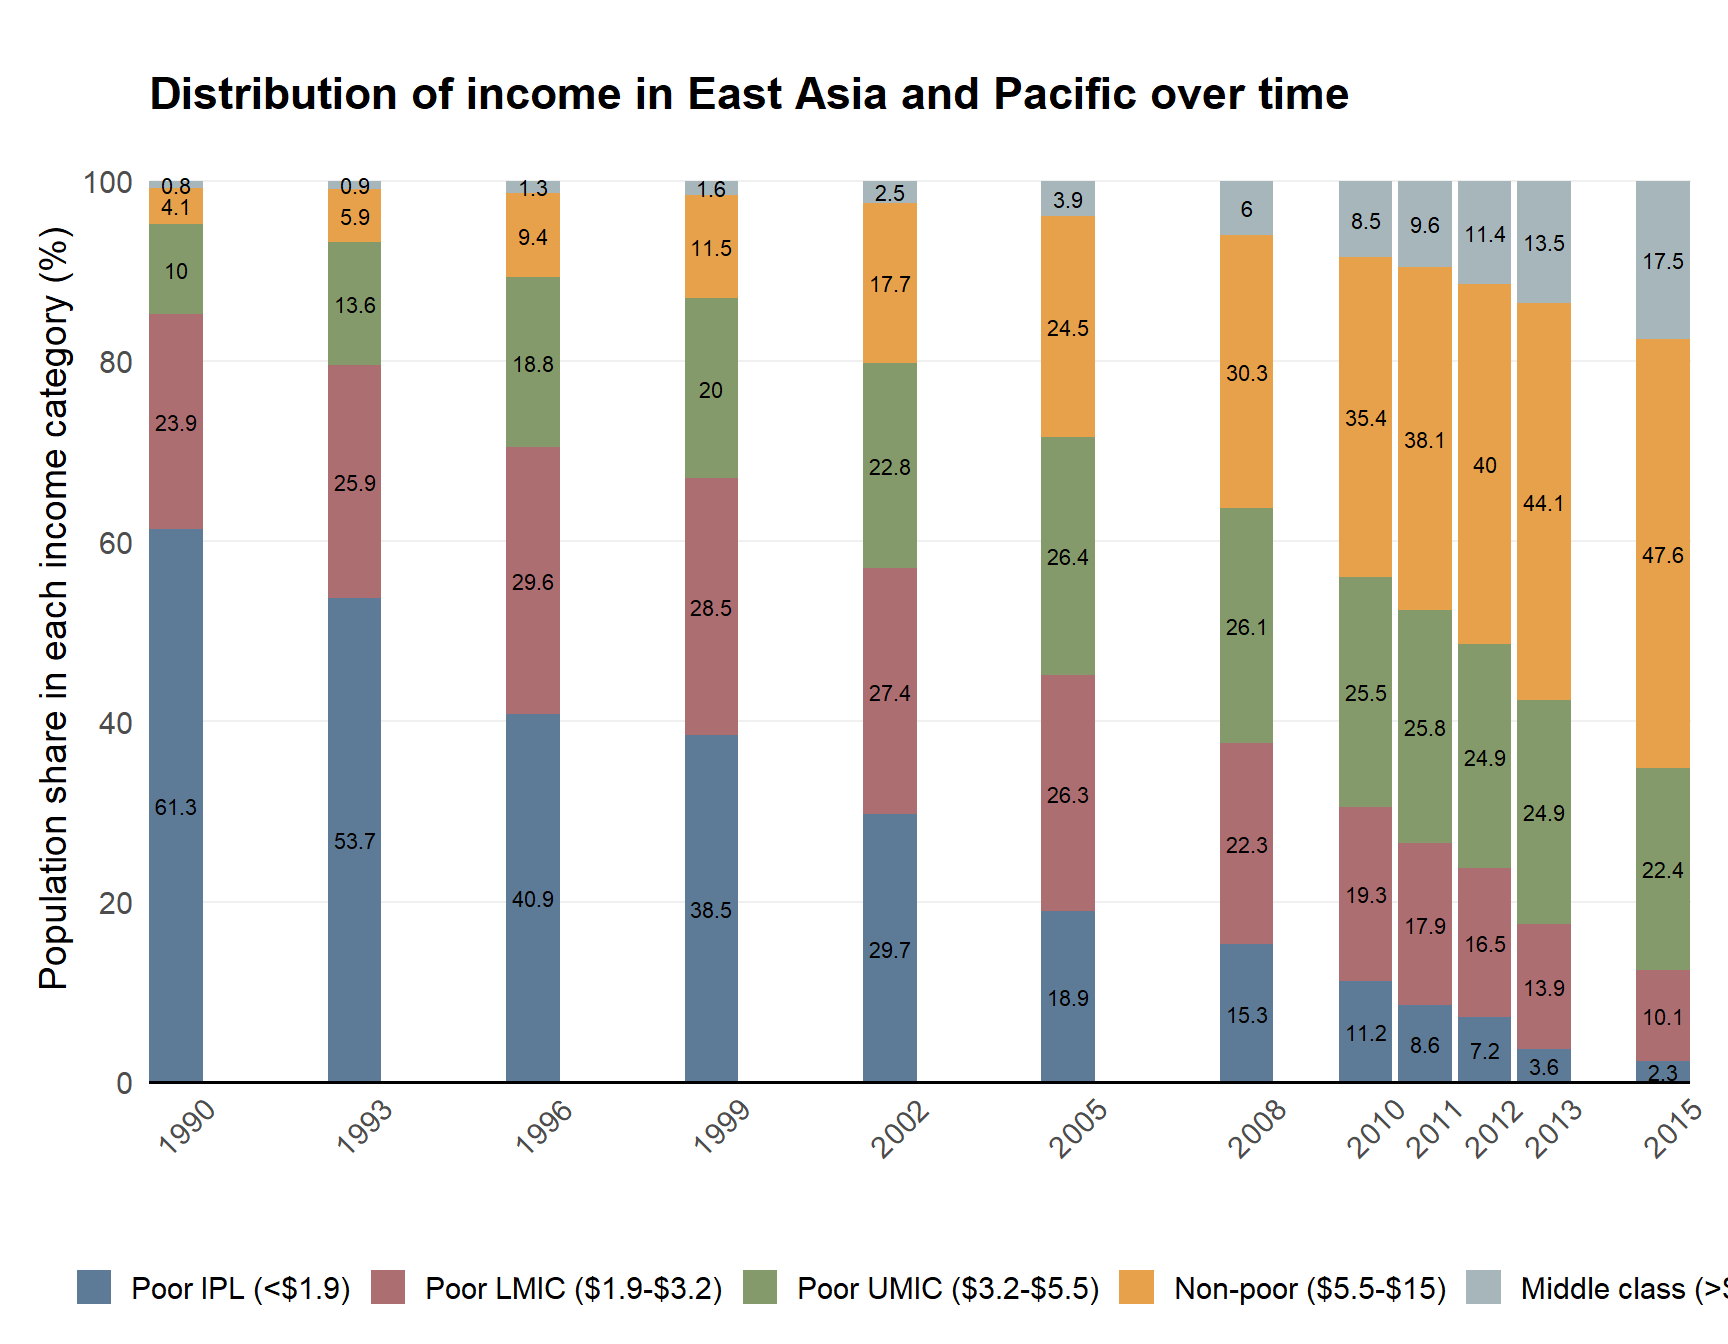
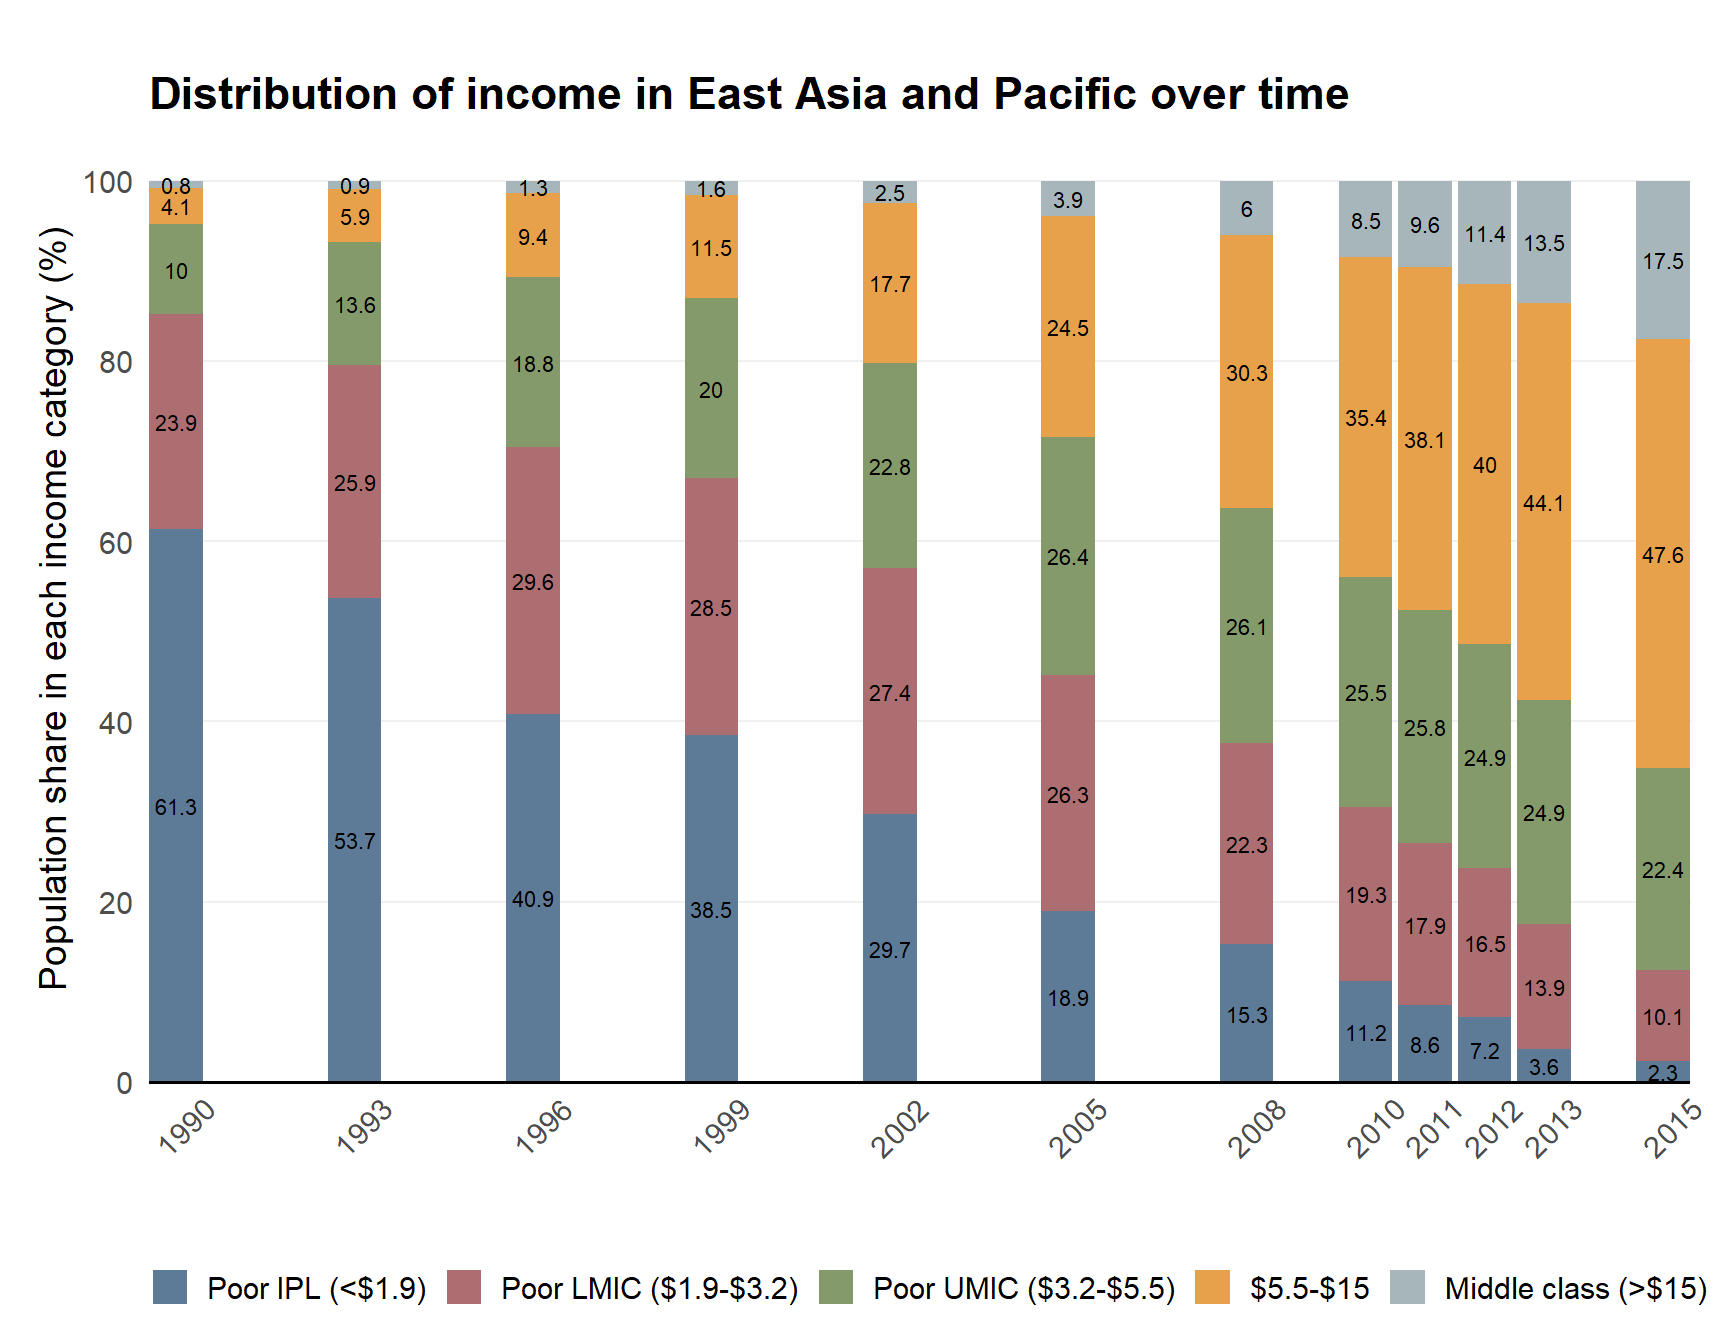
fix chart label

Changed region(s): [[0.0312, 0.9375, 1.0, 0.9688]]

diff --git a/docs/articles/visualization_examples.html b/docs/articles/visualization_examples.html
@@ -241,7 +241,7 @@
 <a class="sourceLine" id="cb5-27" title="27">                             <span class="dt">percentage_0 =</span> <span class="st">"Poor IPL (&lt;$1.9)"</span>,</a>
 <a class="sourceLine" id="cb5-28" title="28">                             <span class="dt">percentage_1 =</span> <span class="st">"Poor LMIC ($1.9-$3.2)"</span>,</a>
 <a class="sourceLine" id="cb5-29" title="29">                             <span class="dt">percentage_2 =</span> <span class="st">"Poor UMIC ($3.2-$5.5)"</span>,</a>
-<a class="sourceLine" id="cb5-30" title="30">                             <span class="dt">percentage_3 =</span> <span class="st">"Non-poor ($5.5-$15)"</span>,</a>
+<a class="sourceLine" id="cb5-30" title="30">                             <span class="dt">percentage_3 =</span> <span class="st">"$5.5-$15"</span>,</a>
 <a class="sourceLine" id="cb5-31" title="31">                             <span class="dt">percentage_4 =</span> <span class="st">"Middle class (&gt;$15)"</span>),</a>
 <a class="sourceLine" id="cb5-32" title="32">    <span class="dt">income_category =</span> <span class="kw">as_factor</span>(income_category),</a>
 <a class="sourceLine" id="cb5-33" title="33">    <span class="dt">income_category =</span> <span class="kw">fct_relevel</span>(income_category, rev)</a>
